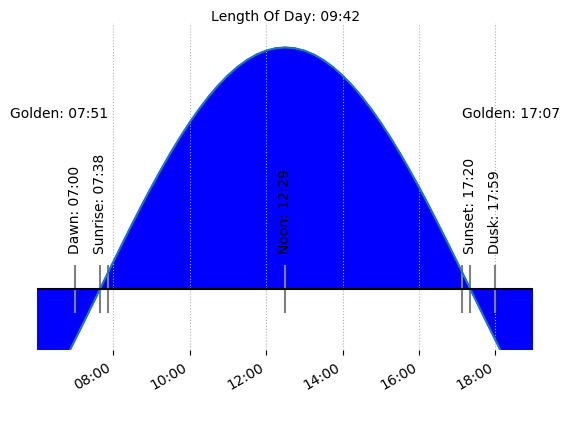
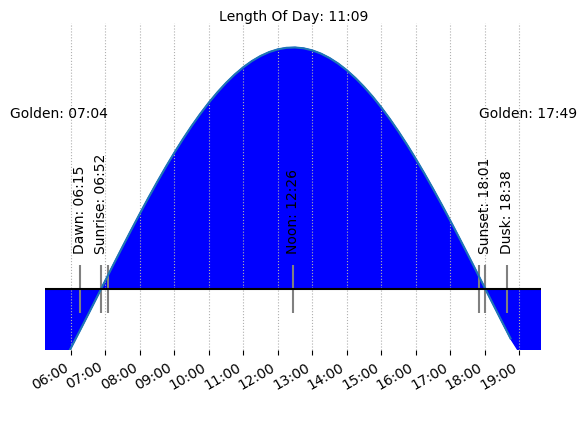
add year graph for sunrise/set, add new module for Daylight Saving Time (UK), tweak Day Graph to show hourly intervals and not 2 hourly intervals

diff --git a/app/YearGraph.py b/app/YearGraph.py
@@ -1,0 +1,97 @@
+import datetime as dt
+import os
+import matplotlib
+import matplotlib.pyplot as plt
+import matplotlib.dates as mdates
+from configparser import SafeConfigParser # for reading ini files
+# use the custom Sunrise module - path may change as things progress
+from modules.Sun.Sun import Sun
+from modules.Utilities.LeapYear import LeapYear
+matplotlib.use('Agg')
+
+
+# Config file location has to be static
+CONFIG_FILE=os.path.expanduser('~/Station/config/config.ini')
+
+#print("opening config file")
+config = SafeConfigParser()
+# open config file
+config.read(CONFIG_FILE)
+
+# get location from config file
+location = [float(config.get('location','latitude')), float(config.get('location','longitude'))]
+
+# get location of save folder
+GRAPH_ROOT=config.get('folder','Graph')
+# print(GRAPH_ROOT)
+
+#print(location)
+
+#get current date and time as a reference point
+Now = dt.datetime.now()
+print(Now)
+
+# initialise x values
+x = []
+
+# create an array of dates from 1st Jan this year to 31st Dec this year. LeapYear function returns 1 for a leap year and 0 for non-leap years so can be used to add the extra day in leap years. 
+for i in range(0,365+LeapYear(Now)):
+	# print(i)
+	x.append(dt.datetime(Now.year,1,1,0,0,0)+dt.timedelta(days=i))
+	#print(x[i])
+
+
+# use list comprehension to get the y-vals. As Sun module returns a timedelta - we need a date to offset against to get the times. Use the first day of the year as the offset
+
+Midnight = dt.datetime(Now.year,1,1,0,0,0)
+
+# get rise and set for civil twilight and official sun rise/set
+y_RiseOfficial = [ Midnight + Sun(x[i],location,0).Rise()['Official'] for i in range(0,365 + LeapYear(Now)) ]
+y_SetOfficial = [ Midnight + Sun(x[i],location,0).Set()['Official'] for i in range(0,365 + LeapYear(Now)) ]
+y_RiseCivil = [ Midnight + Sun(x[i],location,0).Rise()['Civil'] for i in range(0,365 + LeapYear(Now)) ]
+y_SetCivil = [ Midnight + Sun(x[i],location,0).Set()['Civil'] for i in range(0,365 + LeapYear(Now)) ]
+y_Midday = [ Midnight + Sun(x[i],location,0).Transit() for i in range(0,365 + LeapYear(Now)) ]
+#print(x[1])
+
+#print(y_rise)
+
+
+# format how the dates and times are to be displayed
+xfmt = mdates.DateFormatter('%b')
+yfmt = mdates.DateFormatter('%H:%M')
+
+# matplotlib - create graph
+fig, ax = plt.subplots()
+
+# plot x and y values
+ax.plot(x, y_RiseOfficial,'Orange')
+ax.plot(x, y_SetOfficial,'Blue')
+ax.plot(x, y_RiseCivil,'Green')
+ax.plot(x, y_SetCivil,'Black')
+ax.plot(x, y_Midday,'Yellow')
+
+# show vertical and horizontal gridlines
+ax.grid(which='major', axis='x',linestyle='dotted')
+ax.grid(which='major', axis='y',linestyle='dotted')
+
+
+# show where we are in the year
+plt.axvline(x=Now, color='red') # time now
+
+
+#format the axis text
+
+# set x axis to show every month
+locator = mdates.MonthLocator()
+plt.gca().xaxis.set_major_locator(locator)
+
+# format how the dates/times are shown on each axis
+plt.gca().xaxis.set_major_formatter(xfmt)
+plt.gcf().autofmt_xdate()
+plt.gca().yaxis.set_major_formatter(yfmt)
+
+# save the plot
+fig.savefig(''.join([GRAPH_ROOT,'Year','.png']),bbox_inches='tight')
+
+
+

diff --git a/app/modules/Utilities/LeapYear.py b/app/modules/Utilities/LeapYear.py
@@ -1,0 +1,28 @@
+#import math
+import datetime
+
+# calculate if it's a leapyear
+# if a year is div by 4 then check if it is also div by 100 and 400
+
+def LeapYear (oDate):
+	#print("--------- start ---------")
+	# define some constants
+	if (oDate.year % 4) == 0: # if no remainder after div by 4
+		#print("div by 4")
+		# check if the year is a century if it is then it also needs to be divisble by 400. If it isn't a century then it's a leap year
+		if (oDate.year % 100) == 0: # if no remainder after div by 100
+			#print("div by 100")
+			if (oDate.year % 400) == 0: # if no remainder after div by 400
+				#print("div by 400")
+				# year is century and divisible by 400 and therefore a leapyear
+				return 1
+			else:
+				# year is a century and not div by 400
+				return 0
+		else: # year is not a century therefore a leapyear
+			return 1
+			
+	#print("---------- end -----------")
+	# year isn't div by 4 and not a leapyear
+	return 0
+

diff --git a/app/modules/Utilities/DaylightSavingTime.py b/app/modules/Utilities/DaylightSavingTime.py
@@ -1,0 +1,22 @@
+import datetime as dt
+
+def DaylightSavingTime(oDate):
+	# Returns 1 if in DST or 0 if in GMT
+	# start at the end of the relevant month and deduct 1 day until the last Sunday of the month is achieved
+	Start = dt.datetime(oDate.year,3,31,0,0)
+	End = dt.datetime(oDate.year,10,31,0,0)	
+
+	# check if the current date is a Sunday, if not, keep deducting 1 day until it is
+	while Start.isoweekday() != 7:
+		Start = Start - dt.timedelta(days=1)
+		# print(Start)
+
+	while End.isoweekday() !=7:
+		End = End - dt.timedelta(days=1)
+		# print(End)
+
+	# check to see if the date supplied is between the start and end dates
+	if (oDate > Start) and (oDate < End):
+		return(1)
+	else:
+		return(0)

diff --git a/app/DayGraph.py b/app/DayGraph.py
@@ -172,6 +172,11 @@ ax.text(Noon,1.1,''.join(['Length Of Day: ', str(LengthOfDay.hour).zfill(2),":",
 plt.fill_between(xdnow, 0, y2,interpolate=True, color='blue')
 
 # autoformat the times
+
+
+# set x axis to show every month
+locator = mdates.HourLocator()
+plt.gca().xaxis.set_major_locator(locator)
 plt.gcf().autofmt_xdate()
 plt.gca().xaxis.set_major_formatter(xfmt)
 
